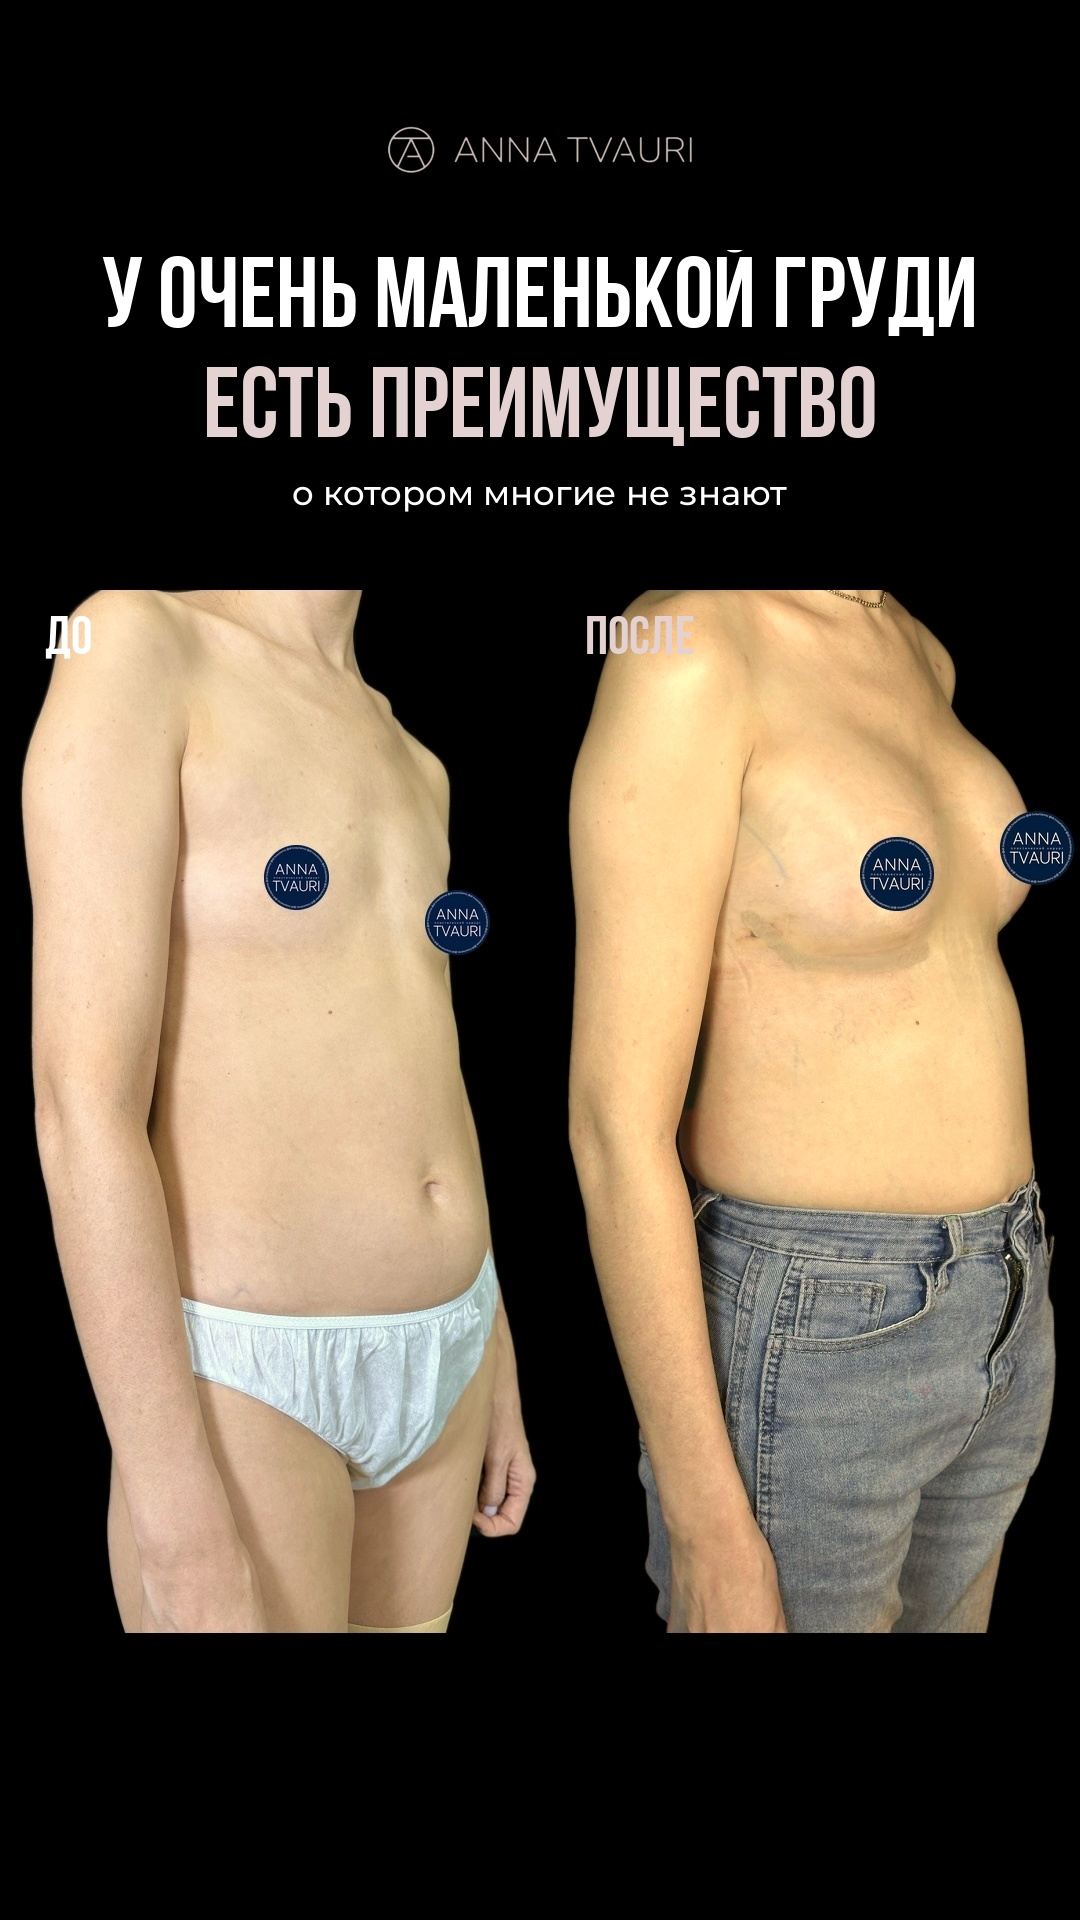
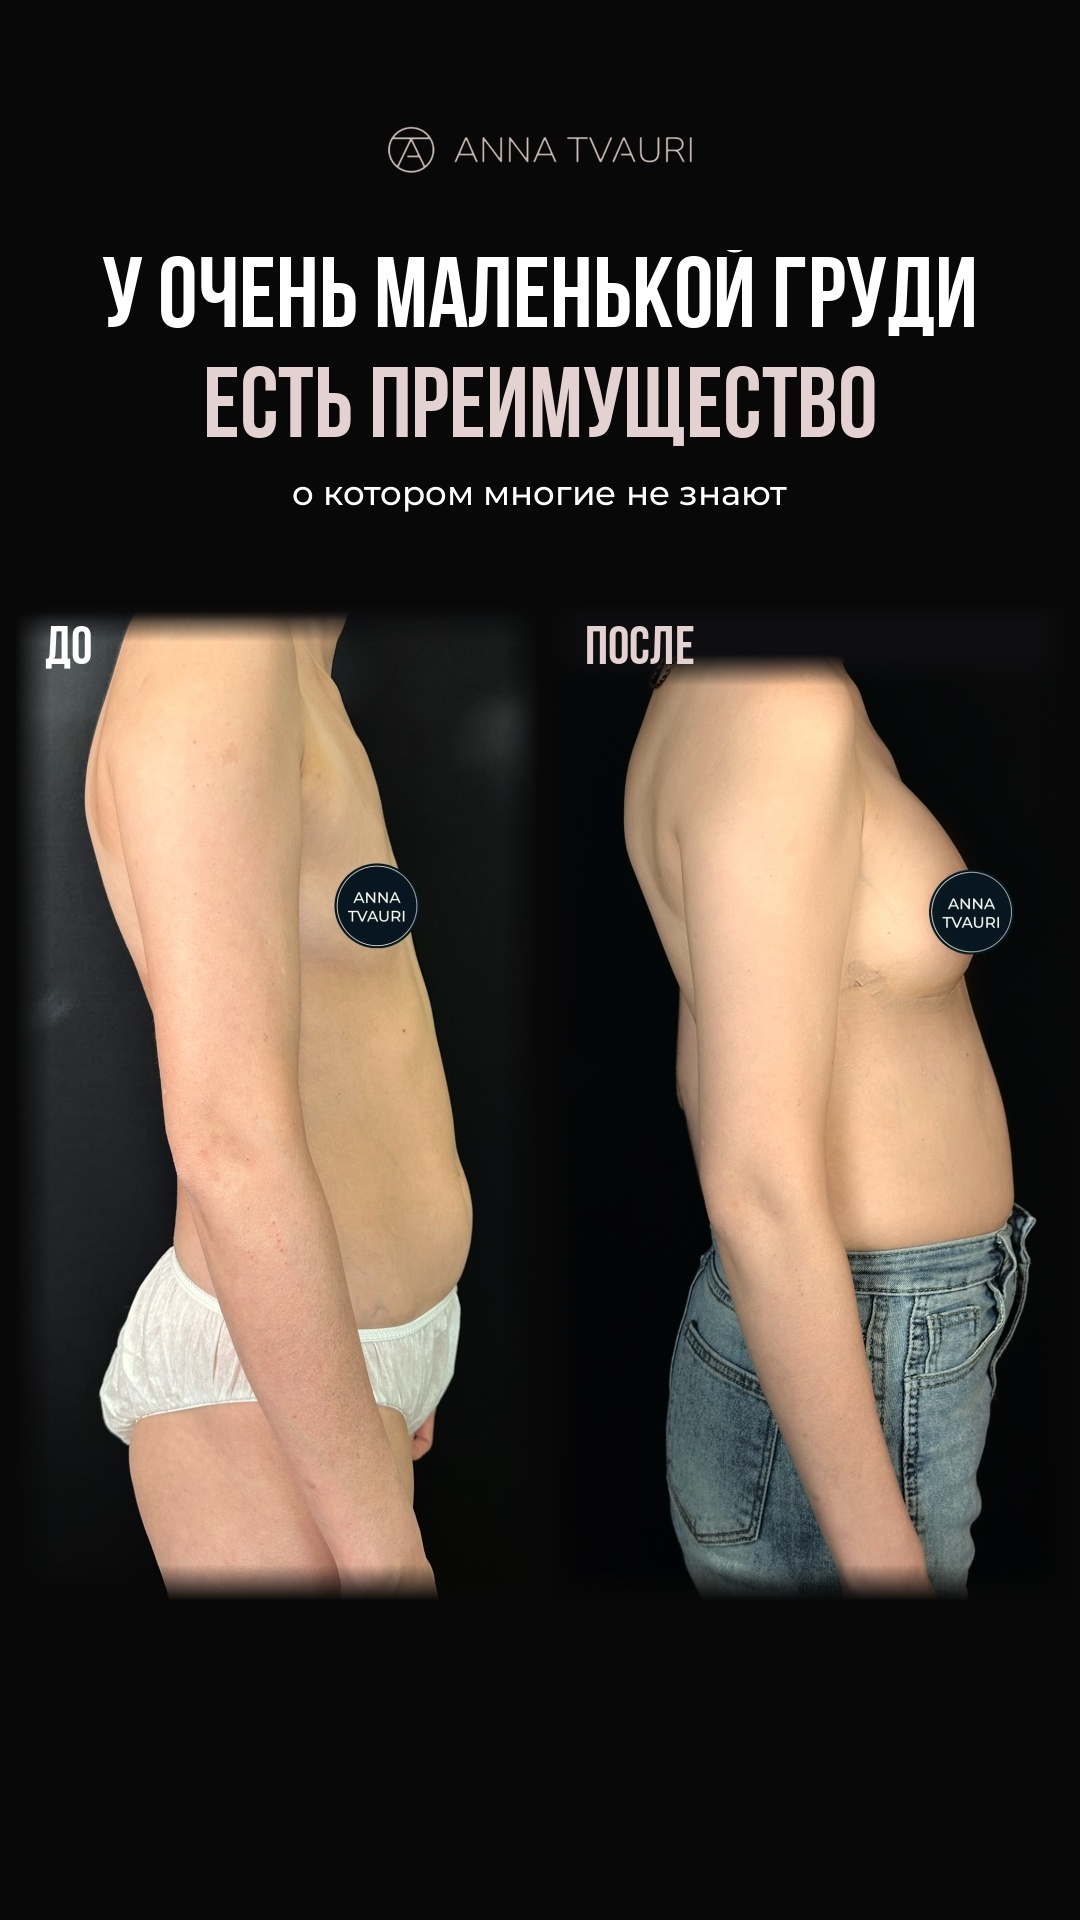
Small-breast reel v6: cut to the surgeon on 'тем не менее', no 3/4 view (profile only), profile cover
Claude-Session: https://claude.ai/code/session_01WwhZiMgoJM3MQocuuEgczm

diff --git a/tools/reel_small_breast.py b/tools/reel_small_breast.py
@@ -1,5 +1,5 @@
 _b = open("base.py").read()
-for a, b in [("DUR = 41.0", "DUR = 40.3"), ("ease((t - t0) / 0.3))\ndef mblur", "ease((t - t0) / 0.6))\ndef mblur"),
+for a, b in [("DUR = 41.0", "DUR = 37.6"), ("ease((t - t0) / 0.3))\ndef mblur", "ease((t - t0) / 0.6))\ndef mblur"),
              ("if lt > 0.1: return fr", "if lt > 0.18: return fr"), ("(1 - lt / 0.1)", "(1 - lt / 0.18)"),
              ("ti = t0 + k * 0.16; p = ease((t - ti) / 0.45)", "ti = t0 + k * 0.24; p = ease((t - ti) / 0.65)"),
              ("out = 1 - ease((t - t1) / 0.3) if t > t1 else 1.0", "out = 1 - ease((t - t1) / 0.4) if t > t1 else 1.0"),
@@ -23,8 +23,8 @@ def src_of(t):
         best = (so, t0 + so - si)
     return best[0] + t - best[1]
 
-BL = [("quote", 0, 5.4), ("res", 5.4, 11.0), ("turn", 11.0, 13.6), ("main", 13.6, 21.6),
-      ("wide", 21.6, 25.7), ("final", 25.7, 32.7), ("collage", 32.7, 36.4), ("collage2", 36.4, DUR)]
+BL = [("quote", 0, 1.6), ("qsurg", 1.6, 5.4), ("res", 5.4, 11.0), ("turn", 11.0, 13.6), ("main", 13.6, 21.6),
+      ("wide", 21.6, 25.7), ("final", 25.7, 32.7), ("collage2", 32.7, DUR)]          # no 3/4 view anywhere
 XF = 0.35
 def block(t):
     for n, a, b in BL:
@@ -125,8 +125,11 @@ def render_block(t, b=None):
         T1.draw(fr, 1060, t, 1.0, t1 - 0.3)
         if t > 1.9: ablend(fr, T1s, 540 - T1s.shape[1] / 2, 1290, min(1, (t - 1.9) / 0.4) * (1 - ease((t - t1 + 0.3) / 0.35)), WHITE, BLUE)
     elif n == "quote":                                                  # opens straight on her request: quote in a frame over ДО
-        fr = focus(photo_full(DO_IMG, 0.95 + 0.04 * lt / 5.4), lt, 0.7); chip(fr, CH_DO, 60, 228, t, 0.3)
-        T2.draw(fr, 1180, t, 0.35, t1 - 0.35)
+        fr = focus(side(SDO, 645, 0.97 + 0.02 * lt / 1.6), lt, 0.7); chip(fr, CH_DO, 60, 228, t, 0.3)
+        T2.draw(fr, 1180, t, 0.35, 5.05)
+    elif n == "qsurg":                                                  # from "тем не менее": the surgeon, close
+        fr = mblur(vframe(src_of(t), 1.5 * (1 - 0.05 * lt / 3.8) * trans(t, t0), 520, 560, 820), lt)
+        T2.draw(fr, 1180, t, 0.35, 5.05)
     elif n == "res":                                                    # first result: profile ДО -> ПОСЛЕ, 295 ml counts up
         z = (0.97 + 0.03 * lt / 5.6) * trans(t, t0, 0.03); p = ease((t - 6.4) / 1.6)       # ДО -> ПОСЛЕ in profile while she says "сделали увеличение"
         fr = mblur(morph(side(SDO, 645, z), side(SPO, 702, z), p), lt)
@@ -135,7 +138,7 @@ def render_block(t, b=None):
         counter(fr, t, 8.4, 9.45, 295, 1205)
         if t > 9.8: ablend(fr, T3s, 540 - T3s.shape[1] / 2, 1300, min(1, (t - 13.8) / 0.4) * (1 - ease((t - t1 + 0.3) / 0.35)), WHITE, BLUE)
     elif n == "turn":                                                   # beautiful after-shot + the turn of the story
-        fr = mblur(photo_full(PO_IMG, (0.95 + 0.04 * lt / 2.8) * trans(t, t0, 0.03)), lt); chip(fr, CH_PO, 60, 228, t, t0 + 0.15)
+        fr = mblur(side(SPO, 760, (1.18 + 0.04 * lt / 2.8) * trans(t, t0, 0.03)), lt); chip(fr, CH_PO, 60, 228, t, t0 + 0.15)   # profile, closer
         T4.draw(fr, 1000, t, t0 + 0.25, t1 - 0.3); flash = 0.25 * max(0, 1 - lt / 0.25)
     elif n == "main":                                                   # close on the surgeon: the main thought
         z = 1.5 - 0.12 * ease(lt / 8)
@@ -148,8 +151,8 @@ def render_block(t, b=None):
         T6.draw(fr, 1000, t, 26.3, t1 - 0.35)
     else:                                                               # the two collages
         z = 1.04 - 0.04 * ease(lt / 1.2)
-        fr = mblur(warp(COLL if n == "collage" else COLL2, z, 540, 1110, 540, 1110), lt); chip(fr, CH_DO, 40, 610, t, t0 + 0.5); chip(fr, CH_PO, 580, 610, t, t0 + 0.7)
-        if n == "collage" and t > t0 + 1.0: ablend(fr, T7, 540 - T7.shape[1] / 2, 370, min(1, (t - t0 - 1.0) / 0.5), WHITE, BLUE)
+        fr = mblur(warp(COLL2, z, 540, 1110, 540, 1110), lt); chip(fr, CH_DO, 40, 610, t, t0 + 0.5); chip(fr, CH_PO, 580, 610, t, t0 + 0.7)
+        if t > t0 + 1.0: ablend(fr, T7, 540 - T7.shape[1] / 2, 370, min(1, (t - t0 - 1.0) / 0.5), WHITE, BLUE)
     if not LIGHT[0] and not n.startswith("collage"): fr = look(fr, t) * (1 - HAZE)
     if not n.startswith("collage"): subs2(fr, t, sub_y)
     DEFER[0] = False

diff --git a/tools/reel_small_breast_audio.py b/tools/reel_small_breast_audio.py
@@ -1,5 +1,5 @@
 import numpy as np, wave, librosa, cv2
-SR=48000; DUR=40.3                                    # no music: voice + sound effects only
+SR=48000; DUR=37.6                                    # no music: voice + sound effects only
 src=open("../v14/audio.py").read(); exec(src[src.index("rng=np.random"):src.index("n=int(DUR*SR)")])
 s2=open("../v15/audio.py").read()
 exec(s2[s2.index("def impact"):s2.index("n=int(DUR*SR)", s2.index("def impact"))])
@@ -18,7 +18,7 @@ WB,PP,IM,RS=whoosh(),pop(),impact(),riser(); SH,BM,SM,DG=shutter(),boom(),shimme
 def tick():                                           # short click for the counter
     k=np.arange(int(0.025*SR))/SR; return np.sin(2*np.pi*2400*k)*np.exp(-k*260)
 TK=tick()
-for c in [5.4,11.0,13.6,21.6,25.7,32.7,36.4]: put(WB,c-0.3,0.24); put(BM,c,0.2)
+for c in [1.6,5.4,11.0,13.6,21.6,25.7,32.7]: put(WB,c-0.3,0.24); put(BM,c,0.2)
 put(SM,0.05,0.2); put(SW,0.35,0.2); put(SH,0.4,0.16); put(SW,0.9,0.14)              # focus pull, quote frame opens
 put(RS,6.4-0.9,0.14); put(SW,6.45,0.24); put(SM,6.6,0.18)                       # ДО -> ПОСЛЕ in profile
 put(PP,7.6,0.2)
@@ -29,8 +29,7 @@ for k in range(3): put(SW,11.25+k*0.24,0.15)
 put(BM,17.4,0.3); put(PP,17.4,0.22); put(PP,17.7,0.22); put(PP,18.0,0.26); put(SM,18.05,0.18)   # "преимущество"
 put(SH,21.6,0.16)
 for k in range(4): put(SW,26.3+k*0.28,0.14)
-put(SM,32.75,0.2); put(PP,33.2,0.2); put(PP,33.4,0.2); put(DG,33.8,0.1)          # first collage
-put(SH,36.42,0.2); put(PP,36.9,0.2); put(PP,37.1,0.2); put(SM,37.2,0.16)         # profile collage
+put(SM,32.75,0.2); put(SH,32.8,0.18); put(PP,33.2,0.2); put(PP,33.4,0.2); put(DG,33.8,0.1)   # profile collage
 M0=7.6                                                # the track's drop lands on the ДО -> ПОСЛЕ transition (6.4 s)
 y,_=librosa.load("mus.wav",sr=SR,mono=False,offset=M0,duration=DUR); mus=y.T[:n].copy(); mus/=np.abs(mus).max()
 if len(mus)<n: mus=np.pad(mus,((0,n-len(mus)),(0,0)))

diff --git a/tools/reel_small_breast_cover.py b/tools/reel_small_breast_cover.py
@@ -1,9 +1,9 @@
 exec(open("reel.py").read().split('if __name__ == "__main__":')[0])
 TCV = Title([("У ОЧЕНЬ МАЛЕНЬКОЙ ГРУДИ", "H"), ("ЕСТЬ ПРЕИМУЩЕСТВО", "P"), ("о котором многие не знают", "S")], 100)
 DEFER[0] = True; PENDING.clear(); LIGHT[0] = False
-img = COLL.copy(); img[420:588] = img[200:210].mean((0, 1)).astype(np.uint8)       # remove the baked-in title
+img = COLL2.copy(); img[420:590] = img[200:210].mean((0, 1)).astype(np.uint8)      # profile collage, its title removed
 fr = img.astype(np.float32) / 255
-chip(fr, CH_DO, 40, 610, 9, 0); chip(fr, CH_PO, 580, 610, 9, 0)
+chip(fr, CH_DO, 40, 620, 9, 0); chip(fr, CH_PO, 580, 620, 9, 0)
 TCV.draw(fr, 250, 9, 0)
 DEFER[0] = False
 for args in PENDING: ablend(fr, *args)
